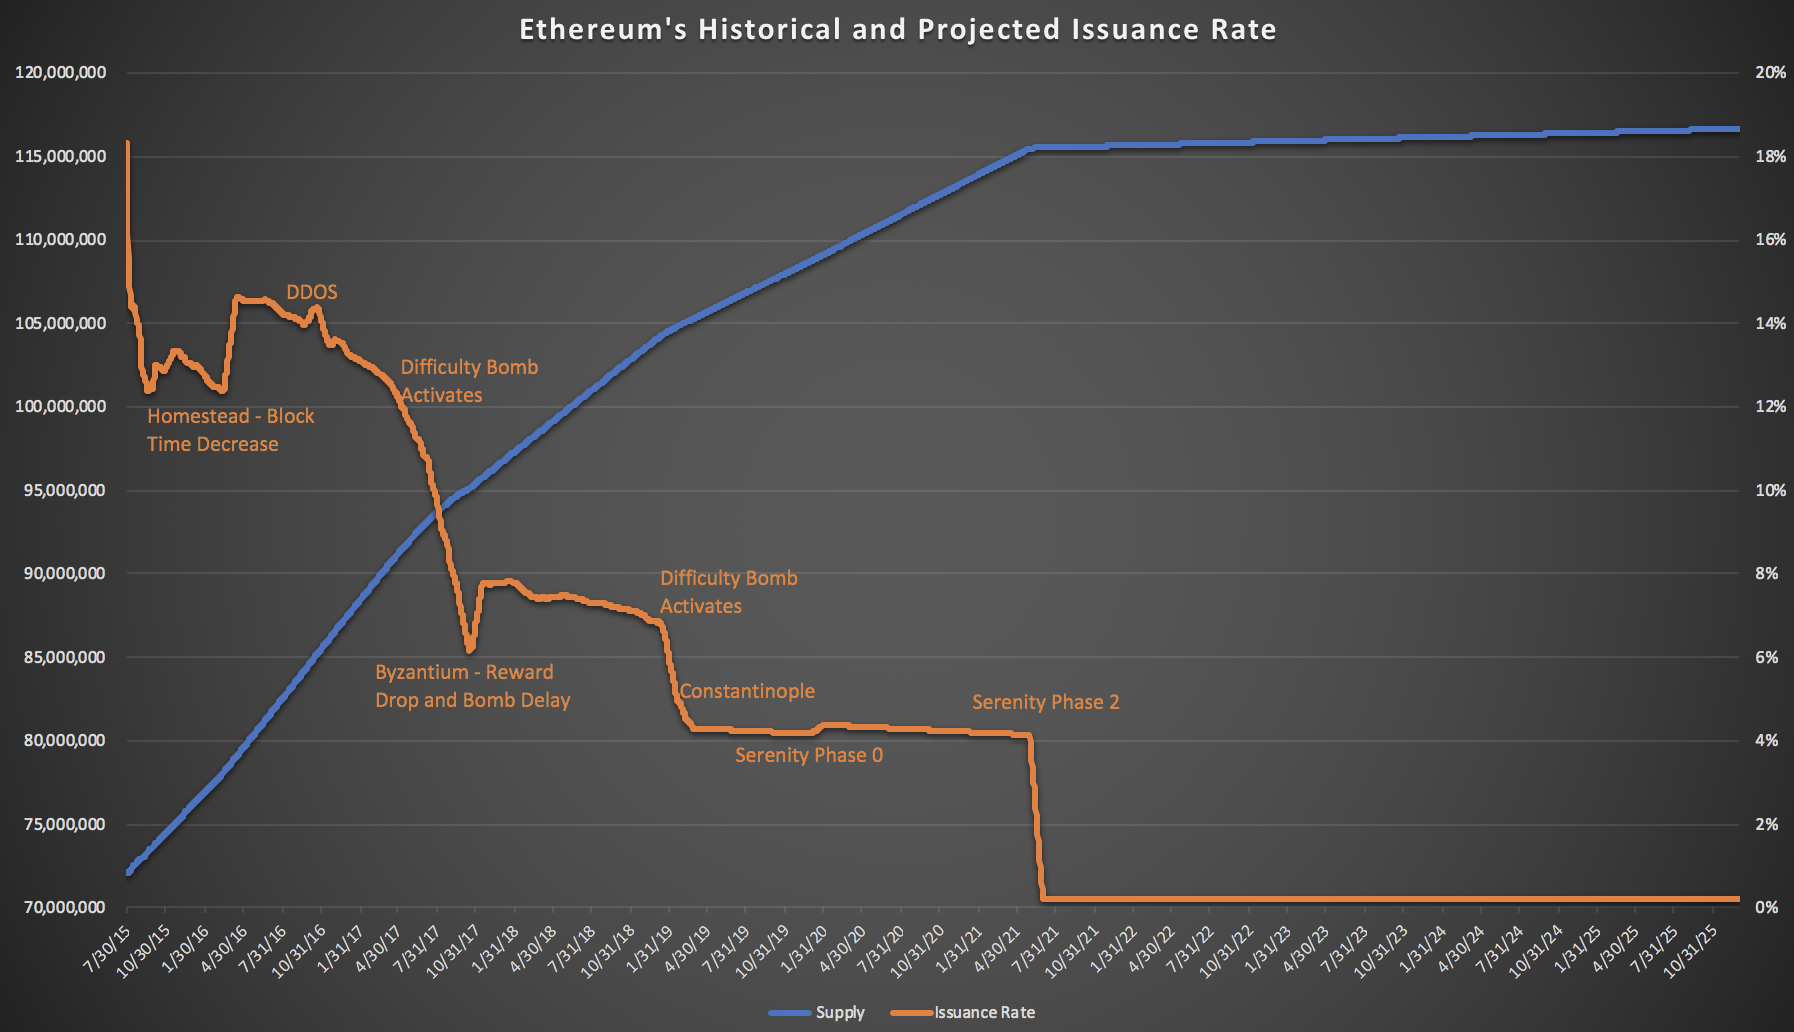
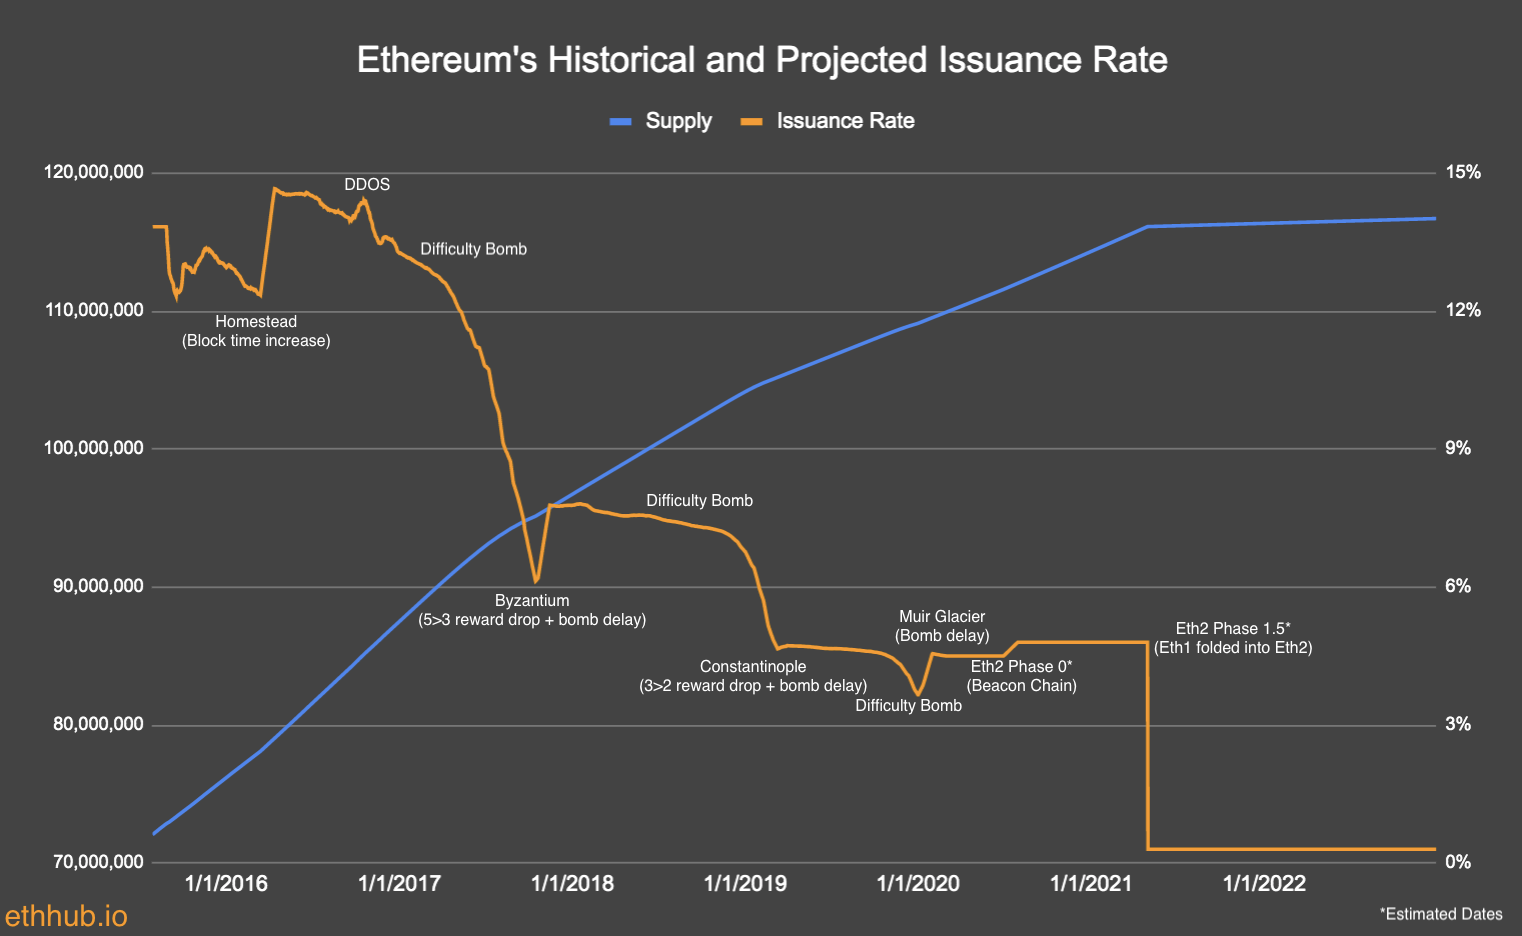
update monetary policy pages

diff --git a/docs/ethereum-basics/monetary-policy.md b/docs/ethereum-basics/monetary-policy.md
@@ -45,6 +45,8 @@ Issuance rate is also impacted by the speed of blocks. There have been a few oth
 * In late 2016, the network was under DDoS attack. This increased the uncle rate, therefore causing a temporary rise in issuance rate.
 * In mid 2017, a mechanism called the difficulty bomb \(or "Ethereum Ice Age"\) started to kick in. This meant that the difficulty of mining a block rose, therefore slowing down blocks. This resulted in a dramatic decrease in issuance rate.
 * In late 2017, the Byzantium fork was released which delayed the difficulty bomb and also reduced block rewards from 5 to 3.
+* In early 2019, after a few months of difficulty bomb activation, the bomb was reset and block rewards were reduced from 3 to 2 in the Constantinople fork.
+* In early 2020, the Muir Glacier fork reset the difficulty bomb.
 
 ### Proof of Stake Impact
 
@@ -62,8 +64,8 @@ According to the current [Eth 2.0 spec](https://github.com/ethereum/eth2.0-specs
 
 There are two majors upcoming factors when it comes to Ethereum's issuance rate and supply curve. They are:
 
-* [Serenity Phase 0](https://github.com/ethhub-io/ethhub/tree/master/ethereum-roadmap/serenity-phases): Slight bump in issuance due to Beacon Chain launch.
-* [Serenity Phase 2](https://github.com/ethhub-io/ethhub/tree/master/ethereum-roadmap/serenity-phases): Strong drop in issuance due to the PoW chain fading away.
+* [Eth2 Phase 0](https://github.com/ethereum/eth2.0-specs/tree/dev/specs/phase0): Slight bump in issuance due to Beacon Chain launch.
+* [Eth2 Phase 1.5](https://github.com/ethereum/eth2.0-specs/tree/dev/specs/phase1): PoW rewards will be removed due to Eth1 PoW chain being [moved into a shard](https://docs.ethhub.io/ethereum-roadmap/ethereum-2.0/eth-1.0-to-2.0-migration/#new-proposal) on the Eth2 chain. This means that the only rewards on chain will be to PoS validators, using the chart above.
 
 ![](/assets/images/issuance_graph.png)
 

diff --git a/docs/ethereum-roadmap/ethereum-2.0/eth-2.0-economics.md b/docs/ethereum-roadmap/ethereum-2.0/eth-2.0-economics.md
@@ -6,7 +6,7 @@ description: A deep dive on the economics in Ethereum 2.0 including staking rewa
 
 ## Introduction
 
-The Ethereum Serenity upgrade will bring with it a switch from Proof of Work to Proof of Stake. This means that rather than pay miners to secure the network, we will be paying validators to secure the network. It's vitally important to get the economics of staking right so that the network stays healthy and secure.
+The Ethereum 2.0 upgrade will bring with it a switch from Proof of Work to Proof of Stake. This means that rather than pay miners to secure the network, we will be paying validators to secure the network. It's vitally important to get the economics of staking right so that the network stays healthy and secure.
 
 If the incentive to stake is too low, the network will not get the minimum amount of validators needed to keep many shards going. If the incentive is too high, the network is overpaying for security and inflating at a rate that is detrimental to the economics of the network as a whole.
 
@@ -57,7 +57,7 @@ In order to incentivize those that have ETH to stake in the network, there must 
 
 ## Fees
 
-Validators earn a cut of the transaction fees that people pay to use the network. This is one area that needs more research but currently, the Ethereum network is paying about 600 ETH a day in fees. At current rate that's 219,000 ETH a year. How this will scale up as we add shards and throughput to the network will be important because it goes into the reward calculation.
+Validators earn a cut of the transaction fees that people pay to use the network. However, due to a burn mechanism implemented in Phase 1, a majority of fees on the network will be burned and removed from total supply.
 
 ## Staking Costs and Risks
 
